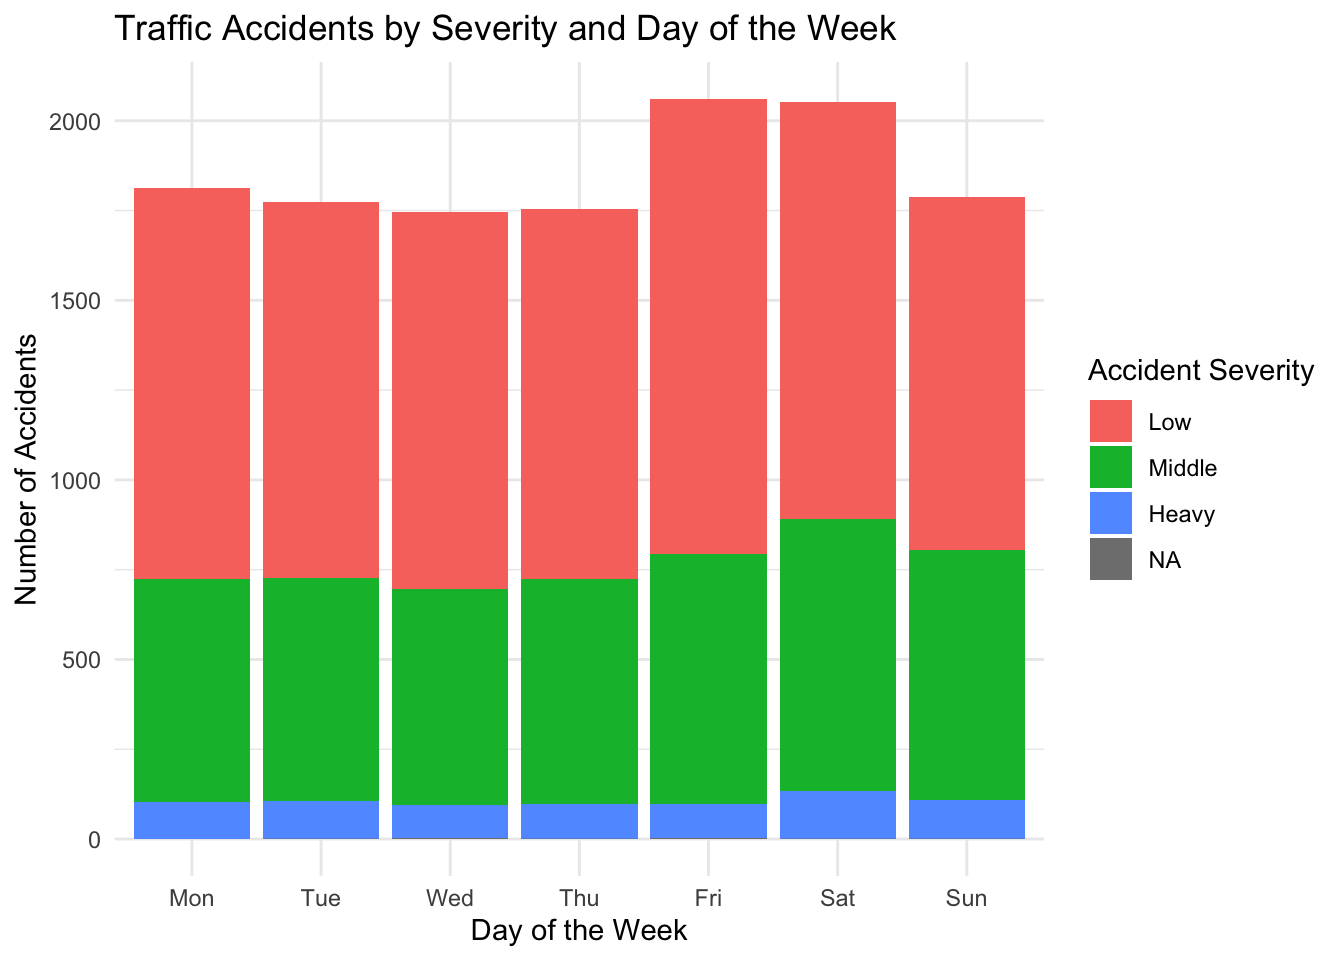
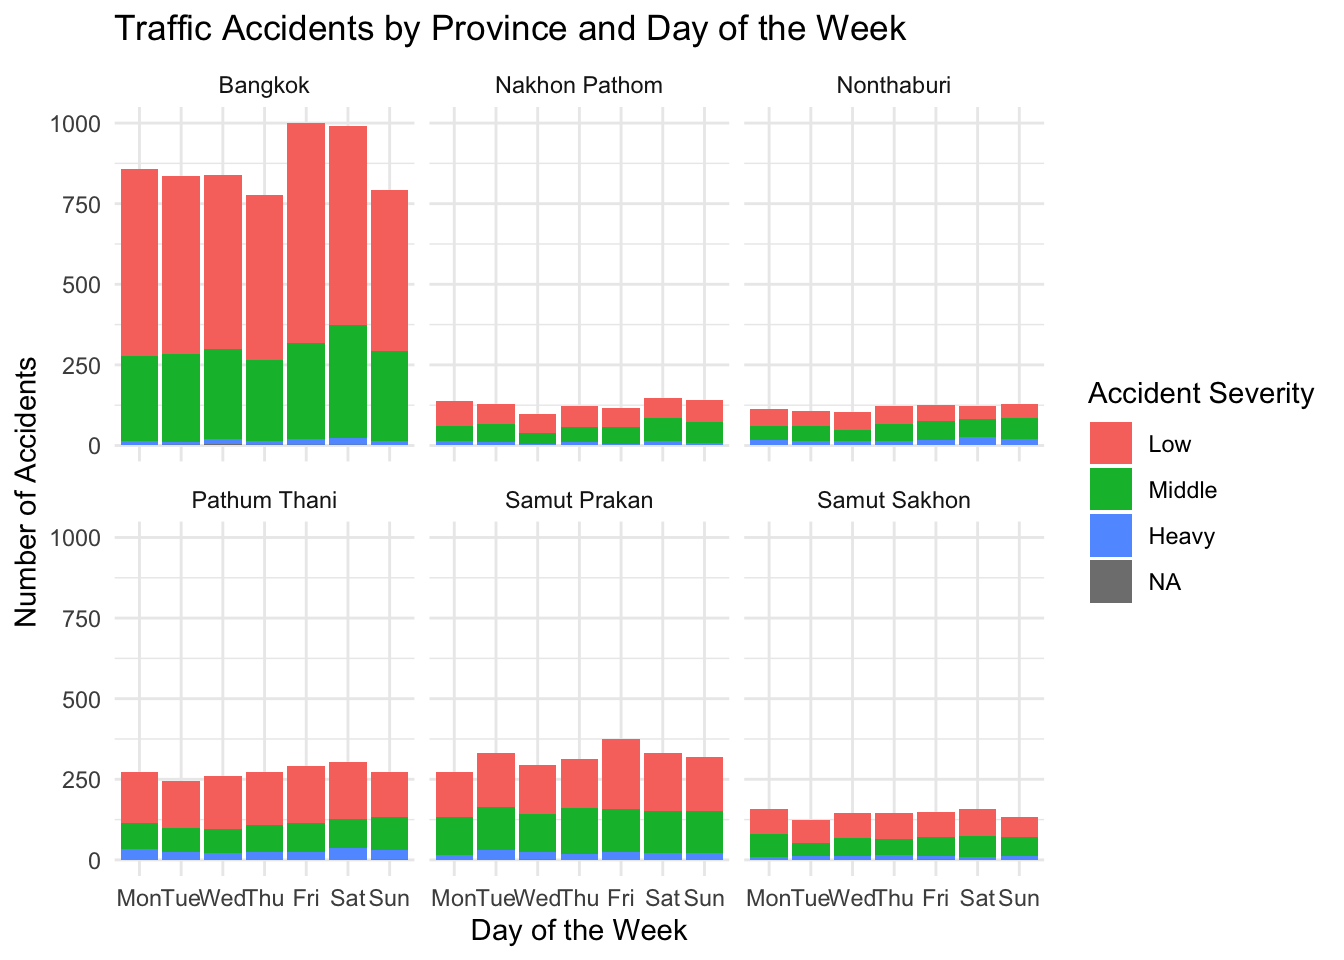
kfun

diff --git a/_site/Take-home_Ex/Take-home_Ex01/Take-home_Ex01.html b/_site/Take-home_Ex/Take-home_Ex01/Take-home_Ex01.html
@@ -335,7 +335,8 @@ pre > code.sourceCode > span > a:first-child::before { text-decoration: underlin
   </ul></li>
   <li><a href="#visual-analysis" id="toc-visual-analysis" class="nav-link" data-scroll-target="#visual-analysis">4. Visual Analysis</a>
   <ul class="collapse">
-  <li><a href="#analysis-based-on-accident-time" id="toc-analysis-based-on-accident-time" class="nav-link" data-scroll-target="#analysis-based-on-accident-time">4.1 Analysis based on Accident Time</a></li>
+  <li><a href="#analysis-based-on-accident-time-with-ggplot" id="toc-analysis-based-on-accident-time-with-ggplot" class="nav-link" data-scroll-target="#analysis-based-on-accident-time-with-ggplot">4.1 Analysis based on Accident Time with ggplot</a></li>
+  <li><a href="#spatio-temporal-analysis" id="toc-spatio-temporal-analysis" class="nav-link" data-scroll-target="#spatio-temporal-analysis">4.2 Spatio-temporal Analysis</a></li>
   </ul></li>
   </ul>
 </nav>
@@ -1359,8 +1360,8 @@ Note
 </section>
 <section id="visual-analysis" class="level1">
 <h1>4. Visual Analysis</h1>
-<section id="analysis-based-on-accident-time" class="level2">
-<h2 class="anchored" data-anchor-id="analysis-based-on-accident-time">4.1 Analysis based on Accident Time</h2>
+<section id="analysis-based-on-accident-time-with-ggplot" class="level2">
+<h2 class="anchored" data-anchor-id="analysis-based-on-accident-time-with-ggplot">4.1 Analysis based on Accident Time with ggplot</h2>
 <p>First we divide the accident severity based on “number_of_vichel_involved”, “number_of_fatalities” &amp; “number_of injuries”</p>
 <div class="cell">
 <details class="code-fold">
@@ -1510,12 +1511,13 @@ Projected CRS: WGS 84 / UTM zone 47N
 <summary>Click to view code</summary>
 <div class="sourceCode cell-code" id="cb80"><pre class="sourceCode r code-with-copy"><code class="sourceCode r"><span id="cb80-1"><a href="#cb80-1" aria-hidden="true" tabindex="-1"></a>plot_w <span class="ot">&lt;-</span> <span class="fu">ggplot</span>(car_acc_time, <span class="fu">aes</span>(<span class="at">x =</span> Day_of_week, <span class="at">fill =</span> accident_severity)) <span class="sc">+</span></span>
 <span id="cb80-2"><a href="#cb80-2" aria-hidden="true" tabindex="-1"></a>  <span class="fu">geom_bar</span>(<span class="at">position =</span> <span class="st">"stack"</span>) <span class="sc">+</span></span>
-<span id="cb80-3"><a href="#cb80-3" aria-hidden="true" tabindex="-1"></a>  <span class="fu">labs</span>(<span class="at">title =</span> <span class="st">"Traffic Accidents by Severity and Day of the Week"</span>,</span>
-<span id="cb80-4"><a href="#cb80-4" aria-hidden="true" tabindex="-1"></a>       <span class="at">x =</span> <span class="st">"Day of the Week"</span>,</span>
-<span id="cb80-5"><a href="#cb80-5" aria-hidden="true" tabindex="-1"></a>       <span class="at">y =</span> <span class="st">"Number of Accidents"</span>,</span>
-<span id="cb80-6"><a href="#cb80-6" aria-hidden="true" tabindex="-1"></a>       <span class="at">fill =</span> <span class="st">"Accident Severity"</span>) <span class="sc">+</span></span>
-<span id="cb80-7"><a href="#cb80-7" aria-hidden="true" tabindex="-1"></a>  <span class="fu">theme_minimal</span>()  <span class="co"># Cleaner appearance</span></span>
-<span id="cb80-8"><a href="#cb80-8" aria-hidden="true" tabindex="-1"></a>plot_w</span></code><button title="Copy to Clipboard" class="code-copy-button"><i class="bi"></i></button></pre></div>
+<span id="cb80-3"><a href="#cb80-3" aria-hidden="true" tabindex="-1"></a>  <span class="fu">facet_wrap</span>(<span class="sc">~</span> province_en) <span class="sc">+</span></span>
+<span id="cb80-4"><a href="#cb80-4" aria-hidden="true" tabindex="-1"></a>  <span class="fu">labs</span>(<span class="at">title =</span> <span class="st">"Traffic Accidents by Province and Day of the Week"</span>,</span>
+<span id="cb80-5"><a href="#cb80-5" aria-hidden="true" tabindex="-1"></a>       <span class="at">x =</span> <span class="st">"Day of the Week"</span>,</span>
+<span id="cb80-6"><a href="#cb80-6" aria-hidden="true" tabindex="-1"></a>       <span class="at">y =</span> <span class="st">"Number of Accidents"</span>,</span>
+<span id="cb80-7"><a href="#cb80-7" aria-hidden="true" tabindex="-1"></a>       <span class="at">fill =</span> <span class="st">"Accident Severity"</span>) <span class="sc">+</span></span>
+<span id="cb80-8"><a href="#cb80-8" aria-hidden="true" tabindex="-1"></a>  <span class="fu">theme_minimal</span>()</span>
+<span id="cb80-9"><a href="#cb80-9" aria-hidden="true" tabindex="-1"></a>plot_w</span></code><button title="Copy to Clipboard" class="code-copy-button"><i class="bi"></i></button></pre></div>
 </details>
 <div class="cell-output-display">
 <div>
@@ -1598,7 +1600,84 @@ Evening Morning
 </div>
 </div>
 </div>
-<p>Since there is no obvious</p>
+<div class="cell">
+<details class="code-fold">
+<summary>Click to view code</summary>
+<div class="sourceCode cell-code" id="cb86"><pre class="sourceCode r code-with-copy"><code class="sourceCode r"><span id="cb86-1"><a href="#cb86-1" aria-hidden="true" tabindex="-1"></a><span class="fu">ggplot</span>(car_acc_time, <span class="fu">aes</span>(<span class="at">x =</span> Day_of_week, <span class="at">y =</span> hour)) <span class="sc">+</span></span>
+<span id="cb86-2"><a href="#cb86-2" aria-hidden="true" tabindex="-1"></a>  <span class="fu">geom_tile</span>(<span class="fu">aes</span>(<span class="at">fill =</span> ..count..), <span class="at">stat =</span> <span class="st">"bin2d"</span>, <span class="at">binwidth =</span> <span class="fu">c</span>(<span class="dv">1</span>, <span class="dv">1</span>)) <span class="sc">+</span></span>
+<span id="cb86-3"><a href="#cb86-3" aria-hidden="true" tabindex="-1"></a>  <span class="fu">facet_wrap</span>(<span class="sc">~</span> accident_severity) <span class="sc">+</span></span>
+<span id="cb86-4"><a href="#cb86-4" aria-hidden="true" tabindex="-1"></a>  <span class="fu">scale_fill_gradient</span>(<span class="at">low =</span> <span class="st">"white"</span>, <span class="at">high =</span> <span class="st">"red"</span>) <span class="sc">+</span></span>
+<span id="cb86-5"><a href="#cb86-5" aria-hidden="true" tabindex="-1"></a>  <span class="fu">labs</span>(<span class="at">title =</span> <span class="st">"Heatmap of Accidents by Day, Hour, and Severity"</span>,</span>
+<span id="cb86-6"><a href="#cb86-6" aria-hidden="true" tabindex="-1"></a>       <span class="at">x =</span> <span class="st">"Day of the Week"</span>,</span>
+<span id="cb86-7"><a href="#cb86-7" aria-hidden="true" tabindex="-1"></a>       <span class="at">y =</span> <span class="st">"Hour"</span>,</span>
+<span id="cb86-8"><a href="#cb86-8" aria-hidden="true" tabindex="-1"></a>       <span class="at">fill =</span> <span class="st">"Number of Accidents"</span>) <span class="sc">+</span></span>
+<span id="cb86-9"><a href="#cb86-9" aria-hidden="true" tabindex="-1"></a>  <span class="fu">theme_minimal</span>()</span></code><button title="Copy to Clipboard" class="code-copy-button"><i class="bi"></i></button></pre></div>
+</details>
+<div class="cell-output-display">
+<div>
+<figure class="figure">
+<p><img src="Take-home_Ex01_files/figure-html/unnamed-chunk-58-1.png" class="img-fluid figure-img" width="672"></p>
+</figure>
+</div>
+</div>
+</div>
+</section>
+<section id="spatio-temporal-analysis" class="level2">
+<h2 class="anchored" data-anchor-id="spatio-temporal-analysis">4.2 Spatio-temporal Analysis</h2>
+<div class="cell">
+<details class="code-fold">
+<summary>Click to view code</summary>
+<div class="sourceCode cell-code" id="cb87"><pre class="sourceCode r code-with-copy"><code class="sourceCode r"><span id="cb87-1"><a href="#cb87-1" aria-hidden="true" tabindex="-1"></a><span class="co"># Set tmap mode to "plot" for static maps or "view" for interactive maps</span></span>
+<span id="cb87-2"><a href="#cb87-2" aria-hidden="true" tabindex="-1"></a><span class="fu">tmap_mode</span>(<span class="st">"plot"</span>)</span>
+<span id="cb87-3"><a href="#cb87-3" aria-hidden="true" tabindex="-1"></a></span>
+<span id="cb87-4"><a href="#cb87-4" aria-hidden="true" tabindex="-1"></a><span class="co"># Add a new column for 'day_type' to distinguish between weekday and weekend</span></span>
+<span id="cb87-5"><a href="#cb87-5" aria-hidden="true" tabindex="-1"></a>car_acc_time <span class="ot">&lt;-</span> car_acc_time <span class="sc">%&gt;%</span></span>
+<span id="cb87-6"><a href="#cb87-6" aria-hidden="true" tabindex="-1"></a>  <span class="fu">mutate</span>(<span class="at">day_type =</span> <span class="fu">case_when</span>(</span>
+<span id="cb87-7"><a href="#cb87-7" aria-hidden="true" tabindex="-1"></a>    Day_of_week <span class="sc">%in%</span> <span class="fu">c</span>(<span class="st">"Sat"</span>, <span class="st">"Sun"</span>) <span class="sc">~</span> <span class="st">"Weekend"</span>,</span>
+<span id="cb87-8"><a href="#cb87-8" aria-hidden="true" tabindex="-1"></a>    <span class="cn">TRUE</span> <span class="sc">~</span> <span class="st">"Weekday"</span></span>
+<span id="cb87-9"><a href="#cb87-9" aria-hidden="true" tabindex="-1"></a>  ))</span>
+<span id="cb87-10"><a href="#cb87-10" aria-hidden="true" tabindex="-1"></a></span>
+<span id="cb87-11"><a href="#cb87-11" aria-hidden="true" tabindex="-1"></a><span class="co"># Create a tmap with facets for weekday and weekend, and color for accident severity</span></span>
+<span id="cb87-12"><a href="#cb87-12" aria-hidden="true" tabindex="-1"></a><span class="fu">tm_shape</span>(car_acc_time) <span class="sc">+</span></span>
+<span id="cb87-13"><a href="#cb87-13" aria-hidden="true" tabindex="-1"></a>  <span class="fu">tm_dots</span>(<span class="at">col =</span> <span class="st">"accident_severity"</span>,   <span class="co"># Color points by 'accident_severity'</span></span>
+<span id="cb87-14"><a href="#cb87-14" aria-hidden="true" tabindex="-1"></a>          <span class="at">palette =</span> <span class="fu">c</span>(<span class="st">"green"</span>, <span class="st">"yellow"</span>, <span class="st">"red"</span>),  <span class="co"># Different colors for Low, Middle, Heavy</span></span>
+<span id="cb87-15"><a href="#cb87-15" aria-hidden="true" tabindex="-1"></a>          <span class="at">size =</span> <span class="fl">0.1</span>,                  <span class="co"># Set point size</span></span>
+<span id="cb87-16"><a href="#cb87-16" aria-hidden="true" tabindex="-1"></a>          <span class="at">alpha =</span> <span class="fl">0.7</span>,                 <span class="co"># Set transparency</span></span>
+<span id="cb87-17"><a href="#cb87-17" aria-hidden="true" tabindex="-1"></a>          <span class="at">title =</span> <span class="st">"Accident Severity"</span>) <span class="sc">+</span>  <span class="co"># Title for the legend</span></span>
+<span id="cb87-18"><a href="#cb87-18" aria-hidden="true" tabindex="-1"></a>  <span class="fu">tm_facets</span>(<span class="at">by =</span> <span class="st">"day_type"</span>, <span class="at">ncol =</span> <span class="dv">1</span>) <span class="sc">+</span>  <span class="co"># Separate the map into facets for Weekday and Weekend</span></span>
+<span id="cb87-19"><a href="#cb87-19" aria-hidden="true" tabindex="-1"></a>  <span class="fu">tm_layout</span>(<span class="at">main.title =</span> <span class="st">"Accidents by Severity and Day Type"</span>,  <span class="co"># Set the main title</span></span>
+<span id="cb87-20"><a href="#cb87-20" aria-hidden="true" tabindex="-1"></a>            <span class="at">main.title.position =</span> <span class="st">"center"</span>,            <span class="co"># Center the title</span></span>
+<span id="cb87-21"><a href="#cb87-21" aria-hidden="true" tabindex="-1"></a>            <span class="at">main.title.size =</span> <span class="fl">0.8</span>,                     <span class="co"># Adjust title size</span></span>
+<span id="cb87-22"><a href="#cb87-22" aria-hidden="true" tabindex="-1"></a>            <span class="at">legend.height =</span> <span class="fl">0.45</span>,                      <span class="co"># Adjust legend height</span></span>
+<span id="cb87-23"><a href="#cb87-23" aria-hidden="true" tabindex="-1"></a>            <span class="at">legend.width =</span> <span class="fl">0.35</span>,                       <span class="co"># Adjust legend width</span></span>
+<span id="cb87-24"><a href="#cb87-24" aria-hidden="true" tabindex="-1"></a>            <span class="at">frame =</span> <span class="cn">TRUE</span>) <span class="sc">+</span>                            <span class="co"># Add a frame around the map</span></span>
+<span id="cb87-25"><a href="#cb87-25" aria-hidden="true" tabindex="-1"></a>  <span class="fu">tm_compass</span>(<span class="at">type =</span> <span class="st">"8star"</span>, <span class="at">size =</span> <span class="dv">2</span>) <span class="sc">+</span>               <span class="co"># Add a compass (8-star style)</span></span>
+<span id="cb87-26"><a href="#cb87-26" aria-hidden="true" tabindex="-1"></a>  <span class="fu">tm_scale_bar</span>() <span class="sc">+</span>                                     <span class="co"># Add a scale bar</span></span>
+<span id="cb87-27"><a href="#cb87-27" aria-hidden="true" tabindex="-1"></a>  <span class="fu">tm_grid</span>(<span class="at">alpha =</span> <span class="fl">0.2</span>) <span class="sc">+</span>                               <span class="co"># Add a grid with light transparency</span></span>
+<span id="cb87-28"><a href="#cb87-28" aria-hidden="true" tabindex="-1"></a>  <span class="fu">tm_credits</span>(<span class="st">"Source: Accident data"</span>,                  <span class="co"># Add credits to the map</span></span>
+<span id="cb87-29"><a href="#cb87-29" aria-hidden="true" tabindex="-1"></a>             <span class="at">position =</span> <span class="fu">c</span>(<span class="st">"left"</span>, <span class="st">"bottom"</span>))</span></code><button title="Copy to Clipboard" class="code-copy-button"><i class="bi"></i></button></pre></div>
+</details>
+<div class="cell-output-display">
+<div>
+<figure class="figure">
+<p><img src="Take-home_Ex01_files/figure-html/unnamed-chunk-59-1.png" class="img-fluid figure-img" width="672"></p>
+</figure>
+</div>
+</div>
+</div>
+<div class="callout callout-style-default callout-note callout-titled">
+<div class="callout-header d-flex align-content-center">
+<div class="callout-icon-container">
+<i class="callout-icon"></i>
+</div>
+<div class="callout-title-container flex-fill">
+Note
+</div>
+</div>
+<div class="callout-body-container callout-body">
+<p>This spatial analysis reveals that traffic accidents, especially of low and middle severity, are concentrated along major roads both during weekdays and weekends. Heavy accidents tend to cluster around central or high-traffic areas, necessitating further traffic safety interventions. The distinction between weekdays and weekends suggests that accident frequency is strongly linked to traffic volume, with weekdays showing a higher density of incidents.</p>
+</div>
+</div>
 
 
 </section>

diff --git a/_site/index.html b/_site/index.html
@@ -668,7 +668,7 @@ No matching items
 </div>
 </div><div class="quarto-listing quarto-listing-container-grid" id="listing-Take-home_Exercise">
 <div class="list grid quarto-listing-cols-3">
-<div class="g-col-1" data-index="0" data-listing-date-sort="1727020800000" data-listing-file-modified-sort="1727128443433" data-listing-date-modified-sort="NaN" data-listing-reading-time-sort="16" data-listing-word-count-sort="3103">
+<div class="g-col-1" data-index="0" data-listing-date-sort="1727020800000" data-listing-file-modified-sort="1727131202851" data-listing-date-modified-sort="NaN" data-listing-reading-time-sort="20" data-listing-word-count-sort="3809">
 <a href="./Take-home_Ex/Take-home_Ex01/Take-home_Ex01.html" class="quarto-grid-link">
 <div class="quarto-grid-item card h-100 card-left">
 <p class="card-img-top"><img src="Take-home_Ex/Take-home_Ex01/Picture/NONONO.png" style="height: 150px;"  class="thumbnail-image card-img"/></p>
